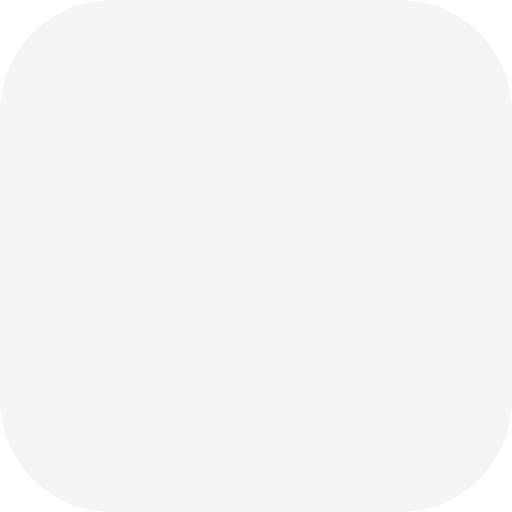
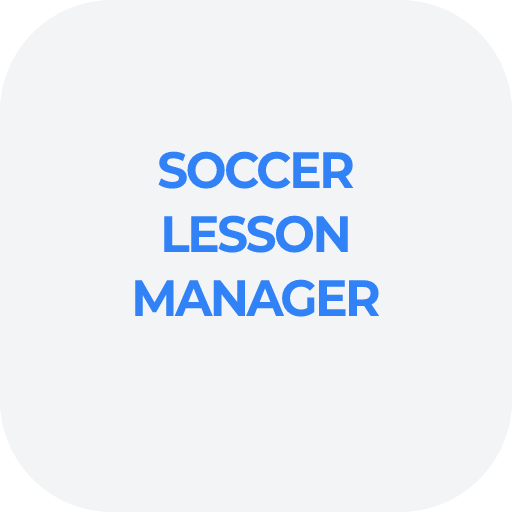
아이콘 PNG Paperlogy 폰트 적용 수정 및 캐시 무력화

Changed region(s): [[0.25, 0.5312, 0.75, 0.625], [0.3125, 0.2812, 0.6875, 0.375], [0.3125, 0.4062, 0.6875, 0.5]]

diff --git a/index.html b/index.html
@@ -11,10 +11,10 @@
 <meta name="theme-color" content="#3182F6"/>
 <meta name="apple-mobile-web-app-capable" content="yes"/>
 <meta name="apple-mobile-web-app-title" content="축구레슨"/>
-<link rel="manifest" href="/manifest.webmanifest?v=20260522-soccer"/>
-<link rel="icon" href="/icon.svg" type="image/svg+xml"/>
-<link rel="icon" href="/icons/icon-192.png" type="image/png" sizes="192x192"/>
-<link rel="apple-touch-icon" href="/apple-touch-icon.png"/>
+<link rel="manifest" href="/manifest.webmanifest?v=20260522-paperlogy"/>
+<link rel="icon" href="/icon.svg?v=20260522-paperlogy" type="image/svg+xml"/>
+<link rel="icon" href="/icons/icon-192.png?v=20260522-paperlogy" type="image/png" sizes="192x192"/>
+<link rel="apple-touch-icon" href="/apple-touch-icon.png?v=20260522-paperlogy"/>
 <script src="https://cdn.tailwindcss.com"></script>
 <script>tailwind.config={theme:{extend:{colors:{toss:{bg:'#F2F4F6',text:'#191F28',sub:'#4E5968',muted:'#8B95A1',blue:'#3182F6',green:'#0D7A5F',pink:'#F04452',emerald:'#00D084'}},fontFamily:{sans:['Paperlogy','system-ui','sans-serif']},boxShadow:{toss:'0 2px 16px rgba(0,0,0,.06)','toss-lg':'0 8px 24px rgba(0,0,0,.08)'}}}}</script>
 <link rel="stylesheet" href="https://cdn.jsdelivr.net/gh/fonts-archive/Paperlogy/Paperlogy.css"/>
@@ -275,7 +275,7 @@ const WEEKDAYS=['일','월','화','수','목','금','토'];
 let state={players:[],schedules:[]};
 let currentView='home',calendarMode='month',calendarDate=new Date(),selectedDate=null,detailTab='payment',historyViewMonth=null;
 let cloudSaveTimer=null,cloudUnsub=null,lastCloudPush=0,applyingRemote=false,firebaseReady=false,bootFinished=false,currentAuthUid=null,currentSyncSession=0;
-const APP_BUILD='20260522-soccer-v2';
+const APP_BUILD='20260522-soccer-v3';
 
 function getStorageKey(authUid){return authUid?STORAGE_KEY_BASE+'-'+authUid:STORAGE_KEY_BASE;}
 function readLocalCache(authUid){